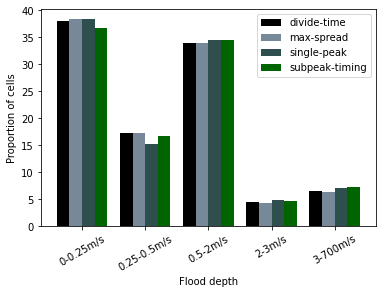
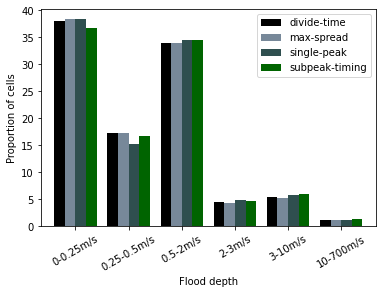
new igs

Changed region(s): [[0.144, 0.0614, 0.9503, 0.9215], [0.8063, 0.7986, 0.9503, 0.9215]]

diff --git a/CatchmentAnalysis/RunModelWithSyntheticRainfall/Processing.py b/CatchmentAnalysis/RunModelWithSyntheticRainfall/Processing.py
@@ -19,7 +19,7 @@ for method_name, file_location in methods.items():
     # Read in file
     method_file = pd.read_csv(file_location, encoding = 'unicode_escape')
     # Cut by depth bins
-    method_file['depth_range']= pd.cut(method_file.value, bins=[0,0.15,0.30,0.60, 0.9, 1.2,99], right=False)
+    method_file['depth_range']= pd.cut(method_file.value, bins=[0,0.15,0.30,0.60, 0.9, 1.2,5,99], right=False)
     depth_groups = method_file.groupby(['depth_range']).sum()
     depth_groups = depth_groups.reset_index()
     # Find the sum
@@ -31,9 +31,9 @@ for method_name, file_location in methods.items():
     proportions_df[method_name] = depth_groups['Proportion']
 
 counts_df.reset_index(inplace=True)
-counts_df['index'] = ['0-0.15m', '0.15-0.3m', '0.3-0.6m', '0.6-0.9m', '0.9-1.2m', '1.2m+']
+counts_df['index'] = ['0-0.15m', '0.15-0.3m', '0.3-0.6m', '0.6-0.9m', '0.9-1.2m', '1.2-5m', '1.2m+']
 proportions_df.reset_index(inplace=True)
-proportions_df['index'] = ['0-0.15m', '0.15-0.3m', '0.3-0.6m', '0.6-0.9m', '0.9-1.2m', '1.2m+']
+proportions_df['index'] = ['0-0.15m', '0.15-0.3m', '0.3-0.6m', '0.6-0.9m', '0.9-1.2m', '1.2-5m', '1.2m+']
 
 # Set colors for plots
 colors = ['black', 'lightslategrey', 'darkslategrey', 'darkgreen']
@@ -109,7 +109,7 @@ for method_name, file_location in methods.items():
     # Read in file
     method_file = pd.read_csv(file_location, encoding = 'unicode_escape')
     # Cut by depth bins
-    method_file['depth_range']= pd.cut(method_file.value, bins=[0,0.25,0.50,2,3,700], right=False)
+    method_file['depth_range']= pd.cut(method_file.value, bins=[0,0.25,0.50,2,3,10,700], right=False)
     depth_groups = method_file.groupby(['depth_range']).sum()
     depth_groups = depth_groups.reset_index()
     # Find the sum
@@ -121,9 +121,9 @@ for method_name, file_location in methods.items():
     proportions_df[method_name] = depth_groups['Proportion']
 
 counts_df.reset_index(inplace=True)
-counts_df['index'] = ['0-0.25m/s', '0.25-0.5m/s', '0.5-2m/s', '2-3m/s','3-700m/s']
+counts_df['index'] = ['0-0.25m/s', '0.25-0.5m/s', '0.5-2m/s', '2-3m/s','3-10m/s','10-700m/s']
 proportions_df.reset_index(inplace=True)
-proportions_df['index'] = ['0-0.25m/s', '0.25-0.5m/s', '0.5-2m/s','2-3m/s', '3-700m/s']
+proportions_df['index'] = ['0-0.25m/s', '0.25-0.5m/s', '0.5-2m/s','2-3m/s','3-10m/s','10-700m/s']
 
 # Set colors for plots
 colors = ['black', 'lightslategrey', 'darkslategrey', 'darkgreen']
